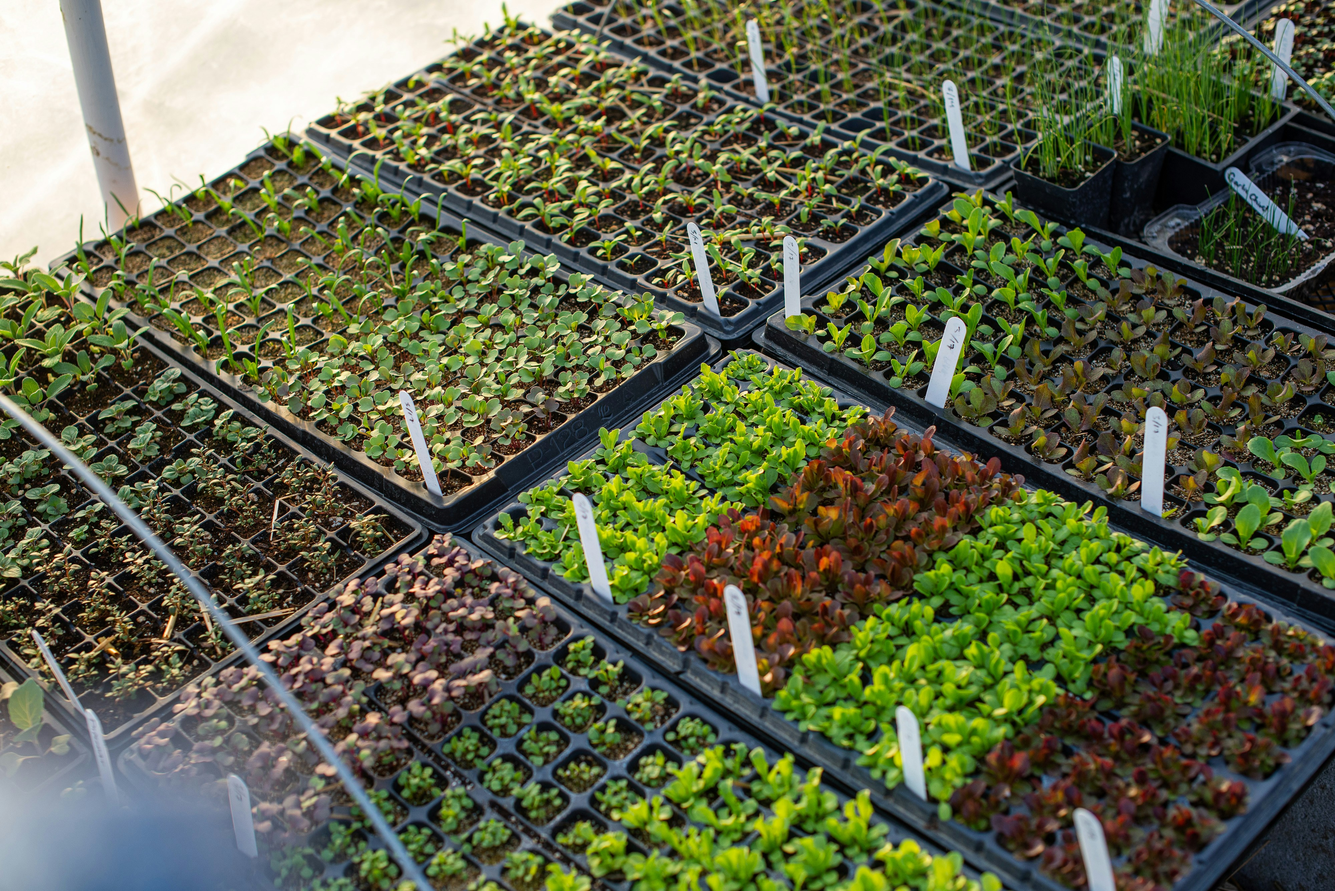
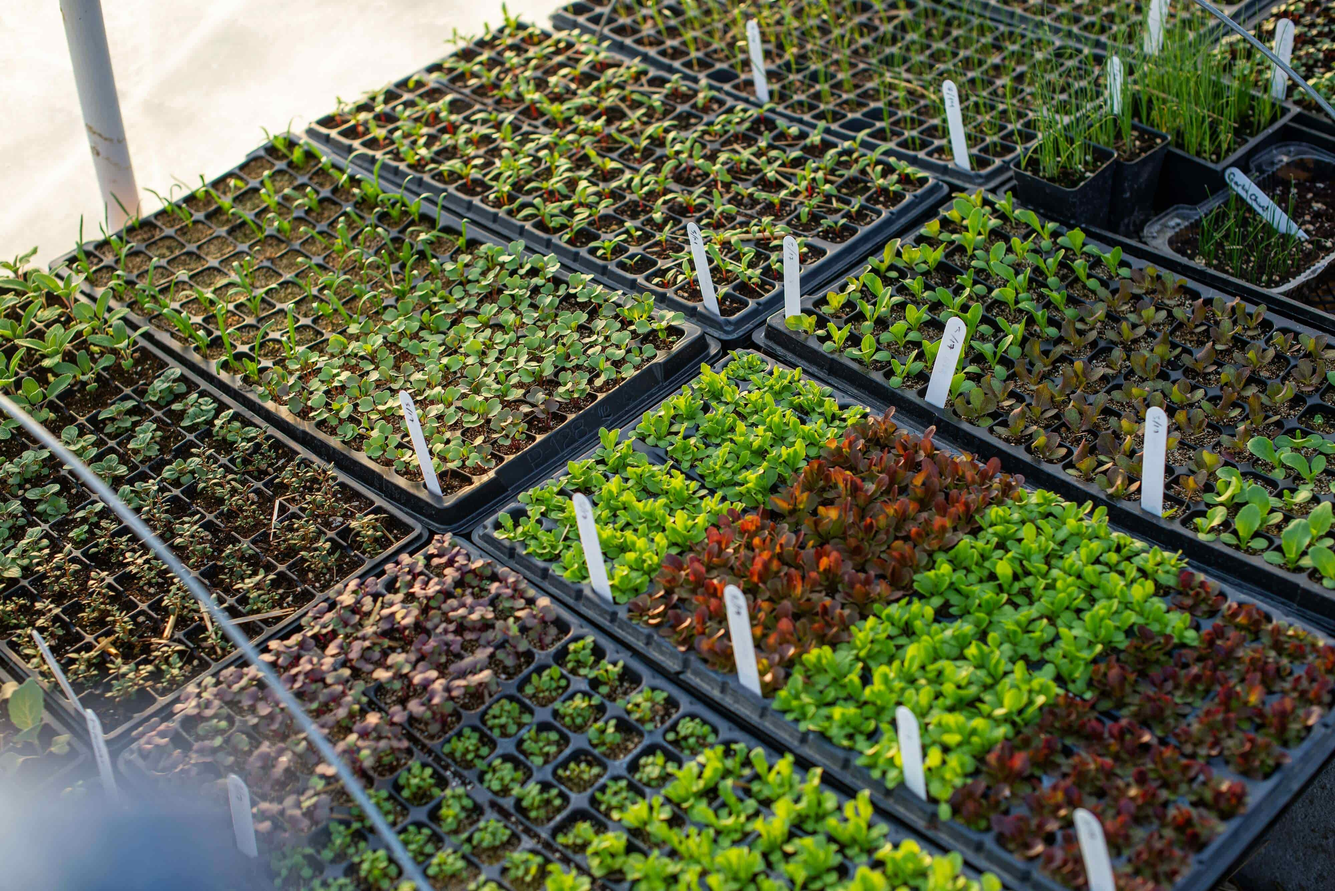
REACT-REF chore(Images) Optimizing images

diff --git a/src/components/Layout/Layout.tsx b/src/components/Layout/Layout.tsx
@@ -20,9 +20,6 @@ const LoadingScreen: React.FC = () => (
         <Hero />
         <SkeletonTheme baseColor="#e8e8e8" highlightColor="#f0f0f0">
           <SkeletonSection />
-          <SkeletonSection />
-          <SkeletonSection />
-          <SkeletonSection />
         </SkeletonTheme>
       </Content>
     </MainContainer>
